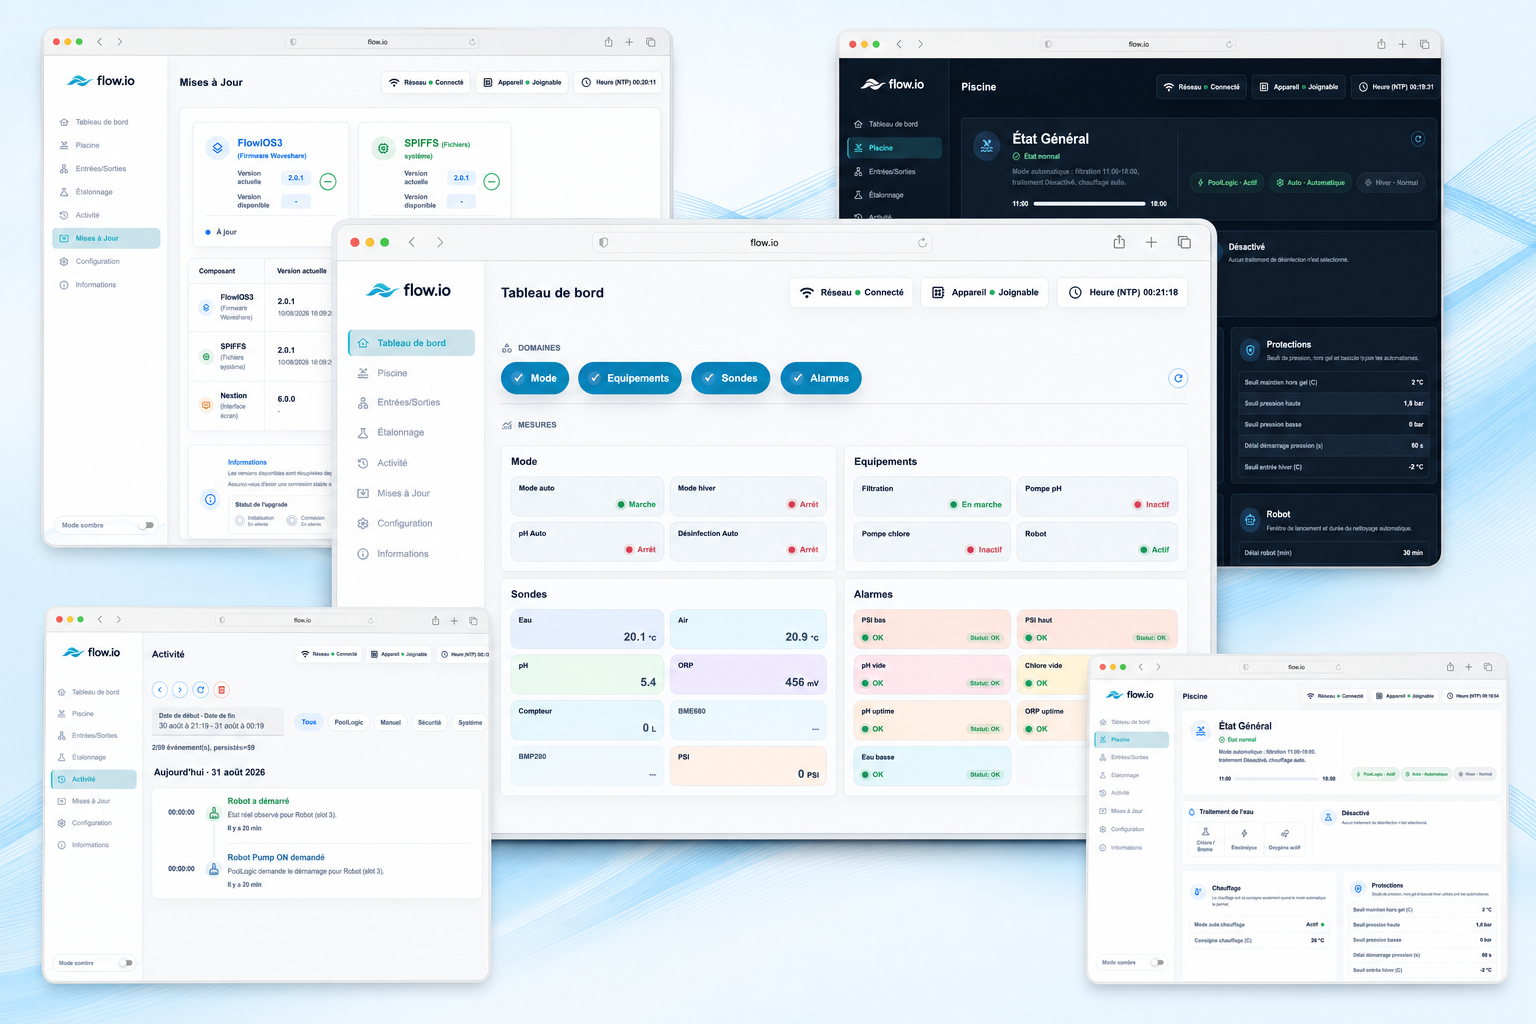
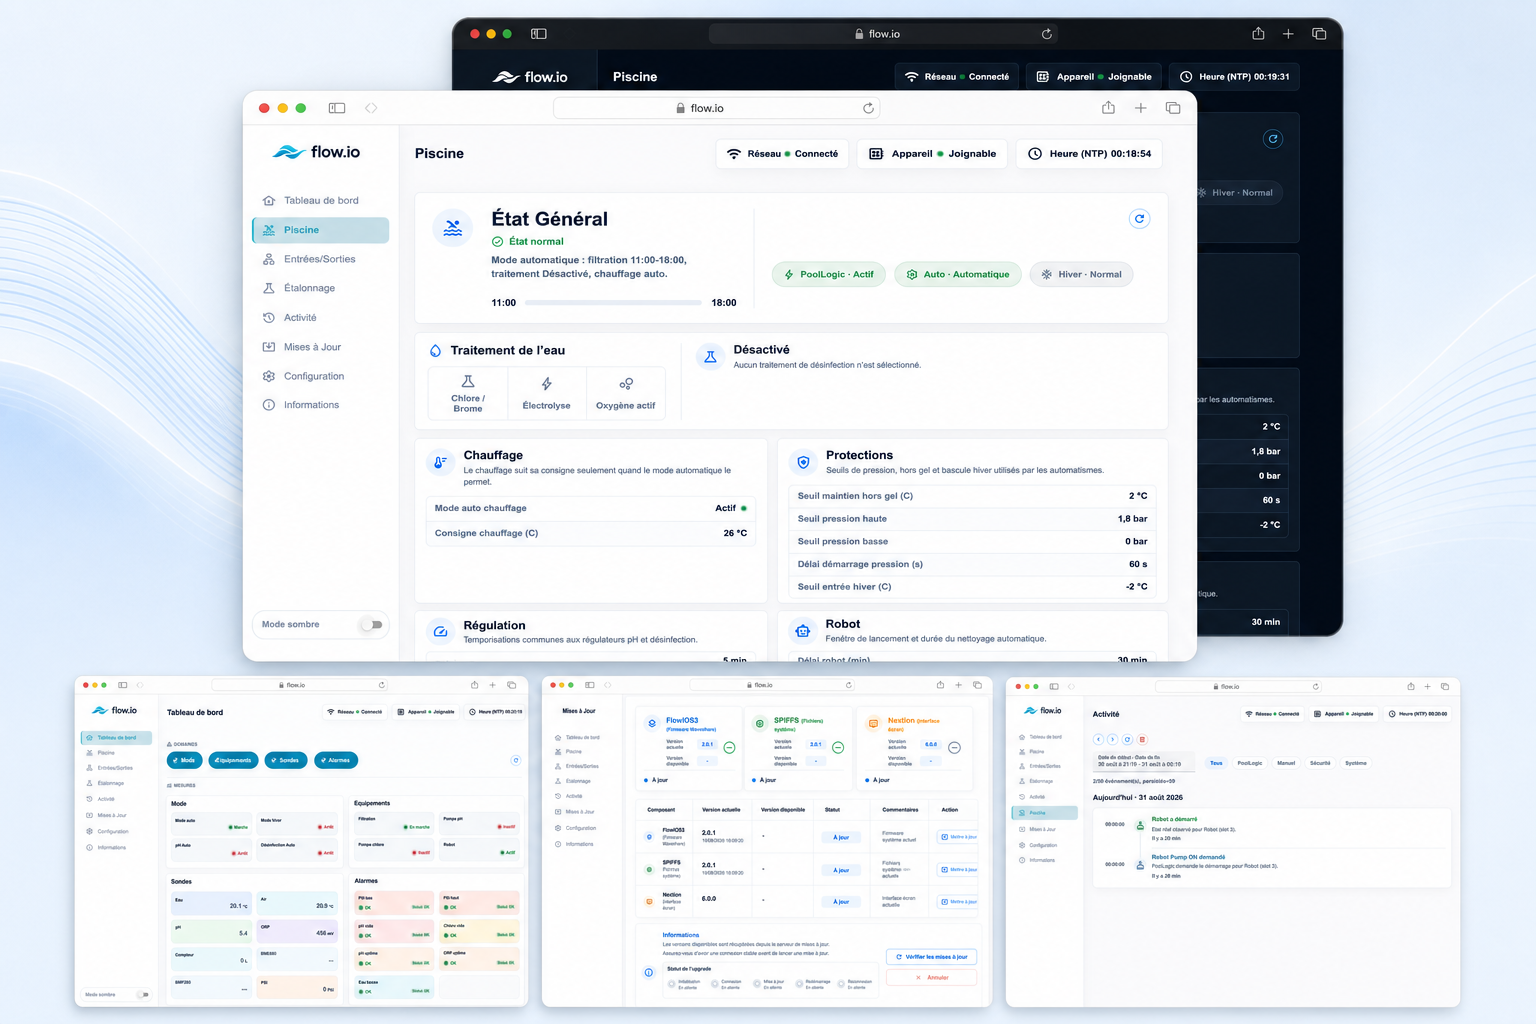
New visuals

diff --git a/README.md b/README.md
@@ -81,6 +81,17 @@ flow.io propose plusieurs moyens de suivre et de piloter la piscine :
 - des alarmes pour les états qui nécessitent une intervention ;
 - des mises à jour du système par le réseau local.
 
+### Piloter sa piscine avec Home Assistant et MQTT
+
+L'interface Home Assistant permet de consulter les mesures et de piloter sa piscine depuis partout dans le monde, directement depuis un smartphone.
+
+Grâce à MQTT, flow.io peut également être intégré à d'autres systèmes domotiques compatibles, notamment Jeedom, openHAB et Domoticz.
+
+<p align="center">
+  <img src="docs/pictures/flowio-home-assistant-mobile-marketing.png" alt="Interface Home Assistant de flow.io sur smartphone avec les logos Home Assistant, Jeedom, openHAB et Domoticz" width="1100"><br>
+  <em>Pilotage de la piscine à distance avec Home Assistant et intégration aux principaux systèmes domotiques compatibles MQTT.</em>
+</p>
+
 ### Une interface web claire et complète
 
 L'interface web réunit le tableau de bord, l'état de la piscine, les mesures, les équipements, les alarmes, l'historique d'activité et les mises à jour. Elle propose des thèmes clair et sombre et reste accessible directement depuis le réseau local, sans dépendre d'un service en ligne.
@@ -98,24 +109,41 @@ L'interface web réunit le tableau de bord, l'état de la piscine, les mesures, 
 
 ## Le matériel flow.io
 
-L'installation de référence associe un contrôleur industriel Waveshare ESP32-S3 à la carte flow.io Companion.
+L'installation de référence associe un contrôleur industriel Waveshare ESP32-S3 à la carte flow.io Companion, dans un boîtier de contrôle complété par un écran tactile local.
 
 <table>
   <tr>
-    <td align="center" width="40%">
-      <img src="docs/pictures/waveshare-esp32-s3-poe-eth-8di-8ro.png" alt="Contrôleur Waveshare ESP32-S3 utilisé par flow.io" width="260"><br>
+    <td align="center" width="50%">
+      <img src="docs/pictures/waveshare-esp32-s3-poe-eth-8di-8ro.png" alt="Contrôleur Waveshare ESP32-S3 utilisé par flow.io" width="240"><br>
       <strong>Contrôleur Waveshare</strong>
     </td>
-    <td align="center" width="60%">
-      <img src="docs/pictures/flowio-companion-waveshare.png" alt="Carte flow.io Companion pour le contrôleur Waveshare" width="420"><br>
+    <td align="center" width="50%">
+      <img src="docs/pictures/flowio-companion-waveshare.png" alt="Carte flow.io Companion pour le contrôleur Waveshare" width="320"><br>
       <strong>Carte flow.io Companion</strong>
+    </td>
+  </tr>
+  <tr>
+    <td align="center" width="50%">
+      <img src="docs/pictures/flowio-controller-enclosure.png" alt="Boîtier de contrôle flow.io avec écran tactile intégré" width="360"><br>
+      <strong>Boîtier de contrôle flow.io</strong>
+    </td>
+    <td align="center" width="50%">
+      <img src="docs/pictures/flowio-local-display-dashboard.png" alt="Écran tactile local flow.io affichant les mesures de la piscine" width="360"><br>
+      <strong>Écran tactile local</strong>
     </td>
   </tr>
 </table>
 
+<p align="center">
+  <img src="docs/pictures/flowio-waveshare-connected-enclosures.png" alt="Boîtier flow.io placé au-dessus du contrôleur Waveshare et relié par une nappe Dupont multicolore" width="600"><br>
+  <em>Liaison entre le boîtier flow.io et le contrôleur Waveshare par une nappe Dupont à 14 conducteurs.</em>
+</p>
+
 Le contrôleur [Waveshare ESP32-S3-POE-ETH-8DI-8RO](https://www.waveshare.com/product/iot-communication/esp32-s3-eth-8di-8ro.htm) assure le fonctionnement autonome et les communications Ethernet ou Wi-Fi.
 
 La carte flow.io Companion regroupe les raccordements utiles à la piscine sur des borniers et connecteurs clairement identifiés : sondes pH et ORP, pression, températures, niveaux, compteur d'eau, afficheur et extensions. Elle simplifie le câblage et permet une intégration plus compacte et plus lisible dans le coffret technique.
+
+Le boîtier rassemble l'électronique de contrôle dans un ensemble compact, tandis que l'écran tactile donne accès sur place aux mesures essentielles et aux commandes de la piscine.
 
 ## Au quotidien
 
